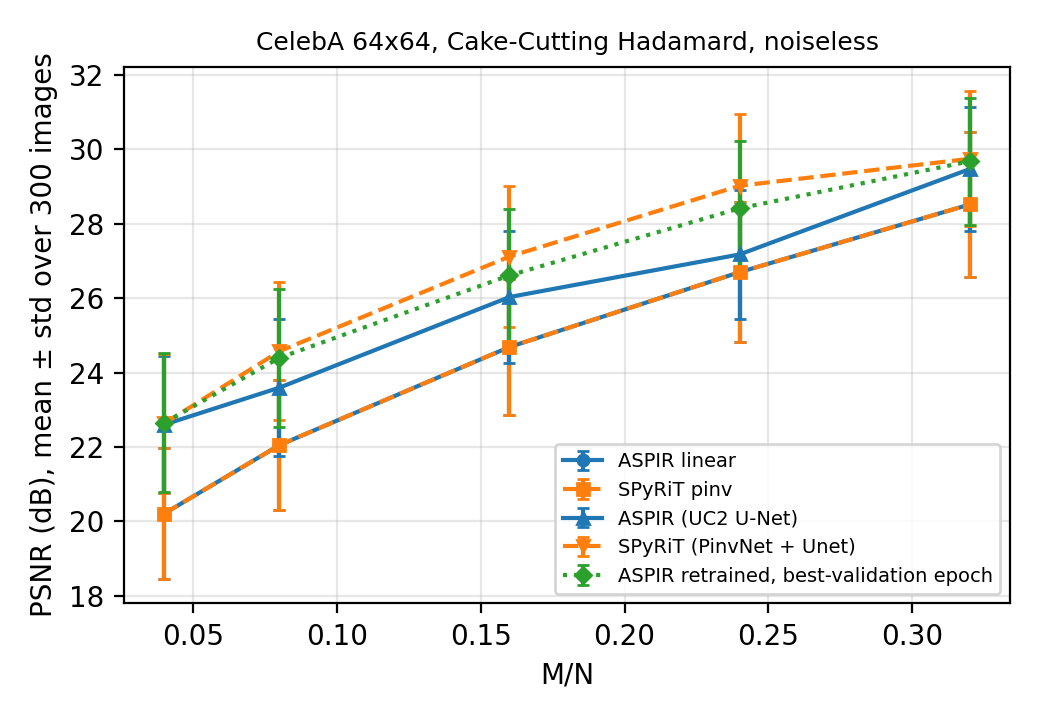
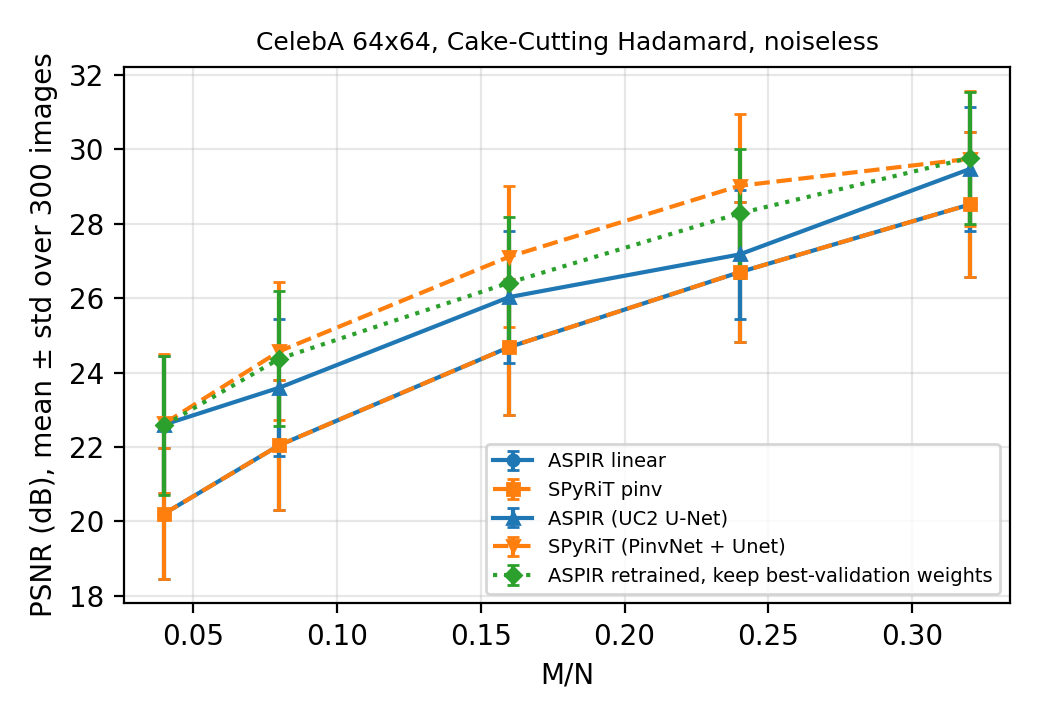
benchmarks: SPyRiT comparison uses ASPIR's best-validation option
The learned-parity gap traced back to weight selection: SPyRiT's
train_model keeps the best-validation weights, ASPIR kept the last epoch.
ASPIR now has that rule as an option (b83434f). A new part,
aspir_side.py retrain_keepbest, retrains the UC2 recipe with it, and the
parity figure and table use that run.

PSNR (dB), 300 UC2 test images, ASPIR with the option vs SPyRiT:
4 % 22.58 / 22.63, 8 % 24.37 / 24.57, 16 % 26.42 / 27.12,
24 % 28.28 / 29.02, 32 % 29.77 / 29.75.

The earlier diagnostic (best epoch picked outside ASPIR) agrees within
0.2 dB at every ratio and stays in the table. The feature matrix notes
the option and the current test count (6 scripts, 45 checks).

diff --git a/benchmarks/spyrit_comparison/aspir_side.py b/benchmarks/spyrit_comparison/aspir_side.py
@@ -129,11 +129,13 @@ def part_learned():
     print("learned done", check, {k: round(v, 3) for k, v in timing.items()})
 
 
-def part_retrain():
+def part_retrain(keep_best_val=False):
     """Supplementary: retrain the UC2 recipe with today's ASPIR on this GPU, for training time.
 
     Same images, split, rows and hyper-parameters as UC2 (batch config), through Simulation /
     PostprocessorNN as Batch Test does; the U-Net is ASPIR's current one (Upsample decoder).
+    With keep_best_val (part `retrain_keepbest`), ASPIR's own *Keep best-validation weights* option
+    selects the weights, as SPyRiT's train_model does.
     """
     from simulation_engine._1_dataset_gen.DatasetFromCelebrities import DatasetFromCelebrities
 
@@ -163,26 +165,28 @@ def part_retrain():
         pp = sim.postprocessor
         sync()
         t0 = time.perf_counter()
-        pp.train_with_metrics(num_epochs=t0cfg["epochs"])
+        pp.train_with_metrics(num_epochs=t0cfg["epochs"], keep_best_val=keep_best_val)
         sync()
         minutes = (time.perf_counter() - t0) / 60
         orig, _, den = (np.asarray(a, dtype=np.float32) for a in pp.test_dataset())
         assert np.abs(orig - test_ref).max() < 1e-6, "test split differs"
         out[f"rec_{ratio}"] = den
         log_[str(ratio)] = {"train_minutes": minutes,
-                            "params": sum(p.numel() for p in pp.model.parameters())}
+                            "params": sum(p.numel() for p in pp.model.parameters()),
+                            "kept_epoch": pp.kept_epoch, "kept_weights": pp.kept_weights}
         print(ratio, log_[str(ratio)], flush=True)
-    np.savez_compressed(DATA / "aspir_retrained.npz", **out)
-    (DATA / "aspir_retrain_log.json").write_text(json.dumps(log_, indent=2))
+    suffix = "_keepbest" if keep_best_val else ""
+    np.savez_compressed(DATA / f"aspir_retrained{suffix}.npz", **out)
+    (DATA / f"aspir_retrain{suffix}_log.json").write_text(json.dumps(log_, indent=2))
 
 
 def part_retrain_bestval():
     """Diagnostic: the same retraining, keeping both the last-epoch and the best-validation weights.
 
-    SPyRiT's train_model returns the weights of the epoch with the lowest validation loss; ASPIR keeps the
+    SPyRiT's train_model returns the weights of the epoch with the lowest validation loss; ASPIR kept the
     last epoch. This trains epoch by epoch (PostprocessorNN.train(1), same optimiser throughout), validates
     after each epoch with PostprocessorNN.validate() and records both, so the effect of that one difference
-    is measured within a single run. ASPIR itself is unchanged.
+    is measured within a single run. It predates ASPIR's own option (part `retrain_keepbest`).
     """
     import copy
 
@@ -231,7 +235,8 @@ def part_retrain_bestval():
 if __name__ == "__main__":
     logging.basicConfig(level=logging.WARNING)
     ap = argparse.ArgumentParser()
-    ap.add_argument("part", choices=["linear", "learned", "retrain", "retrain_bestval"])
+    ap.add_argument("part", choices=["linear", "learned", "retrain", "retrain_keepbest", "retrain_bestval"])
     a = ap.parse_args()
     {"linear": part_linear, "learned": part_learned, "retrain": part_retrain,
+     "retrain_keepbest": lambda: part_retrain(keep_best_val=True),
      "retrain_bestval": part_retrain_bestval}[a.part]()

diff --git a/benchmarks/spyrit_comparison/compare.py b/benchmarks/spyrit_comparison/compare.py
@@ -66,7 +66,8 @@ def write_table(stem, rows, cols):
     (DATA.parent / f"{stem}.md").write_text("\n".join(lines) + "\n")
 
 
-styles_learned = ("ASPIR (UC2 U-Net)", "SPyRiT (PinvNet + Unet)", "ASPIR retrained, best-validation epoch")
+KEEPBEST = "ASPIR retrained, keep best-validation weights"
+styles_learned = ("ASPIR (UC2 U-Net)", "SPyRiT (PinvNet + Unet)", KEEPBEST)
 
 
 def main():
@@ -106,6 +107,9 @@ def main():
         bv_path = DATA / "aspir_retrained_bestval.npz"
         bv = np.load(bv_path) if bv_path.exists() else None
         bv_log = json.loads((DATA / "aspir_retrain_bestval_log.json").read_text()) if bv is not None else {}
+        kb_path = DATA / "aspir_retrained_keepbest.npz"
+        kb = np.load(kb_path) if kb_path.exists() else None
+        kb_log = json.loads((DATA / "aspir_retrain_keepbest_log.json").read_text()) if kb is not None else {}
         rows = []
         for r in RATIOS:
             entries = [("ASPIR (UC2 U-Net)", alr[f"rec_{r}"], at[f"native_{r}"] + alt[f"unet_{r}"], None),
@@ -117,6 +121,9 @@ def main():
                 entries.append(("ASPIR retrained today, run 2, last epoch", bv[f"last_{r}"], "", ""))
                 entries.append((f"ASPIR retrained today, run 2, best-validation epoch "
                                 f"({bv_log[str(r)]['best_epoch']})", bv[f"best_{r}"], "", ""))
+            if kb is not None:
+                entries.append((f"{KEEPBEST} (epoch {kb_log[str(r)]['kept_epoch']})", kb[f"rec_{r}"], "",
+                                kb_log[str(r)]["train_minutes"]))
             for tool, est, ms, tmin in entries:
                 s = summary(score(gt, est))
                 rows.append({"M/N": r, "tool": tool,
@@ -124,8 +131,7 @@ def main():
                              "ssim": s["ssim_mean"], "ssim_std": s["ssim_std"],
                              "lpips": s["lpips_mean"], "lpips_std": s["lpips_std"],
                              "ms_per_image": ms, "train_minutes": "" if tmin is None else tmin})
-                key = ("ASPIR retrained, best-validation epoch" if tool.startswith(
-                    "ASPIR retrained today, run 2, best-validation") else tool)
+                key = KEEPBEST if tool.startswith(KEEPBEST) else tool
                 if key in styles_learned:
                     curves.setdefault(key, []).append((r, s["psnr_mean"], s["psnr_std"]))
         write_table("parity_learned", rows, list(rows[0]))
@@ -136,7 +142,7 @@ def main():
     fig, ax = plt.subplots(figsize=(5.2, 3.6))
     styles = {"ASPIR linear": ("C0", "-", "o"), "SPyRiT pinv": ("C1", "--", "s"),
               "ASPIR (UC2 U-Net)": ("C0", "-", "^"), "SPyRiT (PinvNet + Unet)": ("C1", "--", "v"),
-              "ASPIR retrained, best-validation epoch": ("C2", ":", "D")}
+              KEEPBEST: ("C2", ":", "D")}
     for name, pts in curves.items():
         x, y, e = map(np.array, zip(*pts, strict=True))
         c, ls, mk = styles[name]

diff --git a/benchmarks/spyrit_comparison/README.md b/benchmarks/spyrit_comparison/README.md
@@ -4,8 +4,11 @@ Answers Reviewer 2 (ICOMPUTING-D-26-00705): a feature matrix, a reconstruction-q
 CelebA / Cake-Cutting Hadamard task of Use Case 2, and a workflow-effort comparison.
 
 SPyRiT is not an ASPIR dependency. It runs in its own virtual environment, and each tool is driven only
-through its public API. ASPIR's source is untouched by this folder: a bug found along the way is fixed in its
-own commit, `403db38`.
+through its public API. ASPIR's source is untouched by this folder. Two ASPIR changes came out of the
+comparison, each in its own commit:
+- `403db38` fixes a bug found along the way (omitted `.batch_config` keys);
+- `b83434f` adds the *Keep best-validation weights* option, after the learned-parity gap traced back to
+  weight selection (below).
 
 ## Versions
 
@@ -32,7 +35,8 @@ $ASPIR aspir_side.py linear        # (2a) linear parity
 .venv/bin/python spyrit_side.py evaluate
 $ASPIR aspir_side.py learned       # (2b) UC2 checkpoints, not retrained
 $ASPIR aspir_side.py retrain       # (2b, supplementary) UC2 recipe with today's ASPIR, for training time
-$ASPIR aspir_side.py retrain_bestval   # (2b, diagnostic) last-epoch vs best-validation weights
+$ASPIR aspir_side.py retrain_bestval   # (2b, diagnostic) last-epoch vs best-validation weights, one run
+$ASPIR aspir_side.py retrain_keepbest  # (2b) UC2 recipe with ASPIR's keep-best-validation option
 $ASPIR compare.py                  # tables + figure, one scoring function for both tools
 $ASPIR spihim_split.py             # (2c) split SPIHIM star measurements
 .venv/bin/python pretrained.py     # (2c) SPyRiT's published DC-Net weights
@@ -72,7 +76,9 @@ Data and weights land in `data/`, `models/` and `stat/`, which git ignores. The 
   LPIPS (AlexNet).
 
 Remaining differences, which are part of each tool and are not removed:
-- SPyRiT's `train_model` keeps the best-validation weights; ASPIR keeps the last epoch.
+- SPyRiT's `train_model` keeps the best-validation weights. ASPIR keeps the last epoch by default, and Use
+  Case 2 was trained that way; its *Keep best-validation weights* option (off by default) does what
+  SPyRiT does.
 - UC2 fed its network min-max-normalised, 8-bit-quantised linear reconstructions; SPyRiT feeds the
   pseudoinverse in [0, 1] directly.
 
@@ -82,24 +88,28 @@ Remaining differences, which are part of each tool and are not removed:
   equal to four decimals. On the real SPIHIM star the two tools also agree exactly on the same 1024 rows.
 - **Learned (2b), PSNR in dB on the 300 UC2 test images:**
 
-  | M/N | ASPIR, UC2 checkpoints | SPyRiT PinvNet + Unet | ASPIR retrained, best-validation epoch |
+  | M/N | ASPIR, UC2 checkpoints | SPyRiT PinvNet + Unet | ASPIR retrained, *Keep best-validation weights* (epoch) |
   |---|---|---|---|
-  | 0.04 | 22.60 | 22.63 | 22.65 |
-  | 0.08 | 23.59 | 24.57 | 24.40 |
-  | 0.16 | 26.03 | 27.12 | 26.61 |
-  | 0.24 | 27.18 | 29.02 | 28.42 |
-  | 0.32 | 29.47 | 29.75 | 29.68 |
+  | 0.04 | 22.60 | 22.63 | 22.58 (38) |
+  | 0.08 | 23.59 | 24.57 | 24.37 (45) |
+  | 0.16 | 26.03 | 27.12 | 26.42 (31) |
+  | 0.24 | 27.18 | 29.02 | 28.28 (48) |
+  | 0.32 | 29.47 | 29.75 | 29.77 (45) |
 
   - **Configuration difference found.** SPyRiT's `train_model` returns the best-validation weights; ASPIR's
-    training keeps the last epoch.
+    training kept the last epoch, and Use Case 2 was trained that way.
     - With a constant learning rate the last epoch is noisy. Two identical ASPIR retrainings differ by up to
       1.4 dB at the last epoch (16 %: 26.28 vs 24.86 dB).
-    - At 32 % the last epoch gives 26.1–26.4 dB against 29.7 dB at the best epoch.
-  - Applying the same best-validation rule to ASPIR (diagnostic, outside ASPIR: `aspir_side.py
-    retrain_bestval`) brings it within 0.2 dB of SPyRiT at 4 %, 8 % and 32 %, and within 0.5–0.6 dB at 16 %
-    and 24 %.
-  - Not attributed further: the INT8 quantisation of the network input in the UC2 recipe, the U-Net
-    decoders, and run-to-run variance (≥ 0.3 dB here).
+    - At 32 % the last epoch gives 26.1–26.4 dB against 29.7 dB at the best epoch of the same run.
+  - **ASPIR now has the same rule** as an option (`b83434f`, off by default; `aspir_side.py
+    retrain_keepbest`). With it, ASPIR is within 0.2 dB of SPyRiT at 4 %, 8 % and 32 %, and within 0.7 dB at
+    16 % and 24 %.
+    - The earlier diagnostic (`retrain_bestval`, best epoch picked outside ASPIR) gave the same picture: its
+      values are within 0.2 dB of the option's at every ratio, where the two last-epoch runs differed by up
+      to 1.4 dB.
+    - Training time with the option: 2.0–2.3 min per net, against 2.0–2.2 without it.
+  - Not attributed further (0.7 dB at 16 % and 24 %): the INT8 quantisation of the network input in the UC2
+    recipe, the U-Net decoders (ASPIR's current U-Net has 541 k parameters), and run-to-run variance.
   - Timing on the GTX 1650:
     - training 2.0 min per net in ASPIR (including PSNR / SSIM / LPIPS on validation every epoch) against
       2.5 min in SPyRiT;

diff --git a/benchmarks/spyrit_comparison/parity_learned.md b/benchmarks/spyrit_comparison/parity_learned.md
@@ -5,23 +5,28 @@
 | 0.04 | ASPIR retrained today, run 1, last epoch | 22.47 | 1.796 | 0.6777 | 0.05942 | 0.2511 | 0.0734 |  | 2.181 |
 | 0.04 | ASPIR retrained today, run 2, last epoch | 21.87 | 1.738 | 0.683 | 0.05724 | 0.255 | 0.07573 |  |  |
 | 0.04 | ASPIR retrained today, run 2, best-validation epoch (47) | 22.65 | 1.869 | 0.6954 | 0.05803 | 0.2443 | 0.07474 |  |  |
+| 0.04 | ASPIR retrained, keep best-validation weights (epoch 38) | 22.58 | 1.865 | 0.6873 | 0.05787 | 0.2513 | 0.07313 |  | 2.338 |
 | 0.08 | ASPIR (UC2 U-Net) | 23.59 | 1.844 | 0.7577 | 0.0466 | 0.2046 | 0.06829 | 2.188 |  |
 | 0.08 | SPyRiT (PinvNet + Unet) | 24.57 | 1.857 | 0.7845 | 0.04329 | 0.1805 | 0.06512 | 2.231 | 2.578 |
 | 0.08 | ASPIR retrained today, run 1, last epoch | 24.32 | 1.851 | 0.7713 | 0.04447 | 0.1804 | 0.06316 |  | 2.009 |
 | 0.08 | ASPIR retrained today, run 2, last epoch | 24.13 | 1.763 | 0.7701 | 0.04198 | 0.1882 | 0.06597 |  |  |
 | 0.08 | ASPIR retrained today, run 2, best-validation epoch (47) | 24.4 | 1.851 | 0.7781 | 0.04492 | 0.1875 | 0.06552 |  |  |
+| 0.08 | ASPIR retrained, keep best-validation weights (epoch 45) | 24.37 | 1.816 | 0.7687 | 0.04502 | 0.1985 | 0.0657 |  | 2.043 |
 | 0.16 | ASPIR (UC2 U-Net) | 26.03 | 1.782 | 0.8526 | 0.03002 | 0.1394 | 0.05377 | 2.205 |  |
 | 0.16 | SPyRiT (PinvNet + Unet) | 27.12 | 1.891 | 0.8704 | 0.02809 | 0.1208 | 0.05339 | 2.177 | 2.583 |
 | 0.16 | ASPIR retrained today, run 1, last epoch | 26.28 | 1.73 | 0.8438 | 0.03331 | 0.143 | 0.05346 |  | 2.002 |
 | 0.16 | ASPIR retrained today, run 2, last epoch | 24.86 | 1.816 | 0.8366 | 0.03246 | 0.1367 | 0.05452 |  |  |
 | 0.16 | ASPIR retrained today, run 2, best-validation epoch (46) | 26.61 | 1.791 | 0.8574 | 0.02818 | 0.1422 | 0.05616 |  |  |
+| 0.16 | ASPIR retrained, keep best-validation weights (epoch 31) | 26.42 | 1.762 | 0.8511 | 0.02893 | 0.1428 | 0.05934 |  | 2.022 |
 | 0.24 | ASPIR (UC2 U-Net) | 27.18 | 1.736 | 0.8945 | 0.02011 | 0.1167 | 0.04954 | 2.217 |  |
 | 0.24 | SPyRiT (PinvNet + Unet) | 29.02 | 1.931 | 0.9128 | 0.0213 | 0.08326 | 0.04204 | 2.095 | 2.529 |
 | 0.24 | ASPIR retrained today, run 1, last epoch | 27.59 | 1.676 | 0.8944 | 0.02816 | 0.09112 | 0.04396 |  | 2.028 |
 | 0.24 | ASPIR retrained today, run 2, last epoch | 27.84 | 1.648 | 0.8998 | 0.02083 | 0.09774 | 0.04516 |  |  |
 | 0.24 | ASPIR retrained today, run 2, best-validation epoch (47) | 28.42 | 1.8 | 0.9044 | 0.02088 | 0.09316 | 0.04523 |  |  |
+| 0.24 | ASPIR retrained, keep best-validation weights (epoch 48) | 28.28 | 1.739 | 0.9032 | 0.02148 | 0.1026 | 0.04657 |  | 2.009 |
 | 0.32 | ASPIR (UC2 U-Net) | 29.47 | 1.676 | 0.9285 | 0.01978 | 0.05986 | 0.02853 | 2.181 |  |
 | 0.32 | SPyRiT (PinvNet + Unet) | 29.75 | 1.821 | 0.9337 | 0.01558 | 0.06817 | 0.03208 | 2.177 | 2.503 |
 | 0.32 | ASPIR retrained today, run 1, last epoch | 26.1 | 1.611 | 0.9149 | 0.02693 | 0.07517 | 0.03399 |  | 1.976 |
 | 0.32 | ASPIR retrained today, run 2, last epoch | 26.4 | 1.826 | 0.9173 | 0.01968 | 0.06246 | 0.02839 |  |  |
 | 0.32 | ASPIR retrained today, run 2, best-validation epoch (42) | 29.68 | 1.703 | 0.9292 | 0.01837 | 0.05884 | 0.02832 |  |  |
+| 0.32 | ASPIR retrained, keep best-validation weights (epoch 45) | 29.77 | 1.784 | 0.9286 | 0.01854 | 0.0676 | 0.03033 |  | 1.989 |

diff --git a/benchmarks/spyrit_comparison/feature_matrix.md b/benchmarks/spyrit_comparison/feature_matrix.md
@@ -47,7 +47,7 @@ when SPyRiT itself does not.
 | Reconstruction | Plug-and-play / pretrained denoiser in the loop | ✗ | ✓ DRUNet denoiser in DC-Net; deepinv bridge | — | SPyRiT external/drunet.py; tutorial/tuto_05_dcnet.py |
 | Reconstruction | GPU support | ✓ all seven algorithms (torch backend; device selectable) | ✓ all (PyTorch modules) | — | ASPIR _3_applicator/torch_backend; SPyRiT core |
 | Neural networks | Architectures | ✓ 10 (autoencoder / DnCNN / U-Net / ResUNet / attention U-Net / residual CNN / Noise2Void / MobileNet / dilated CNN / cGAN) | ✓ ConvNet / ConvNetBN / DConvNet / Unet / DRUNet | — | ASPIR _4_postprocessor/postprocessor_nn.py MODEL_REGISTRY; SPyRiT core/nnet.py / external/drunet.py |
-| Neural networks | Training engine | ✓ PostprocessorNN (GUI and batch; curves; INT8 calibration export) | ✓ core/train.train_model (best-validation checkpoint; TensorBoard) | — | ASPIR postprocessor_nn.py; SPyRiT core/train.py |
+| Neural networks | Training engine | ✓ PostprocessorNN (GUI and batch; curves; optional best-validation weights; INT8 calibration export) | ✓ core/train.train_model (best-validation checkpoint; TensorBoard) | — | ASPIR postprocessor_nn.py; SPyRiT core/train.py |
 | Neural networks | Pretrained weights distributed | ✗ | ✓ Creatis warehouse via misc/load_data.download_girder (Pinv-Net / DC-Net / DRUNet) | ✓ | SPyRiT tutorial/tuto_05_dcnet.py; misc/load_data.py |
 | Noise | Measurement noise (Poisson / Gaussian / Poisson–Gaussian) | ✗ (simulated acquisition is noiseless; calibrated noise only in the experimental script) | ✓ noise.Gaussian / Poisson / PoissonGaussian / approximations | — | SPyRiT core/noise.py; ASPIR scripts/experimental_spihim_figure.py |
 | Noise | Image speckle | ✓ speckle_noise on dataset images | ✗ | — | ASPIR _1_dataset_gen/dataset.py |
@@ -65,7 +65,7 @@ when SPyRiT itself does not.
 | Platforms | macOS | not documented | ✓ (CI) | — | SPyRiT CI matrix |
 | Platforms | Docker | ✓ docker/Dockerfile (GPU + X11) | ✗ | — | ASPIR docker/ |
 | Platforms | NVIDIA Jetson | ✓ jtop / sysfs energy backend; Jetson measurements | not documented | — | ASPIR _5_analyzer/energy_backends/_jetson.py |
-| Engineering | Automated tests | partial: 5 plain-assert test scripts (37 checks); no test runner | ✓ pytest doctests across modules + tutorials executed | — | ASPIR tests/; SPyRiT CI |
+| Engineering | Automated tests | partial: 6 plain-assert test scripts (45 checks); no test runner | ✓ pytest doctests across modules + tutorials executed | — | ASPIR tests/; SPyRiT CI |
 | Engineering | Continuous integration | ✗ | ✓ GitHub Actions (Ubuntu / Windows / macOS; Python 3.10–3.14; weekly) | — | SPyRiT .github/workflows/main.yml |
 | Engineering | Packaging | partial: pip install from source; archived on Zenodo | ✓ PyPI (pip install spyrit) | — | ASPIR pyproject.toml / CITATION.cff; SPyRiT pyproject.toml |
 | Engineering | Documentation | ✓ Read the Docs (user guide + API) | ✓ Read the Docs (API + tutorial gallery) | — | ASPIR docs/; SPyRiT docs/ |
